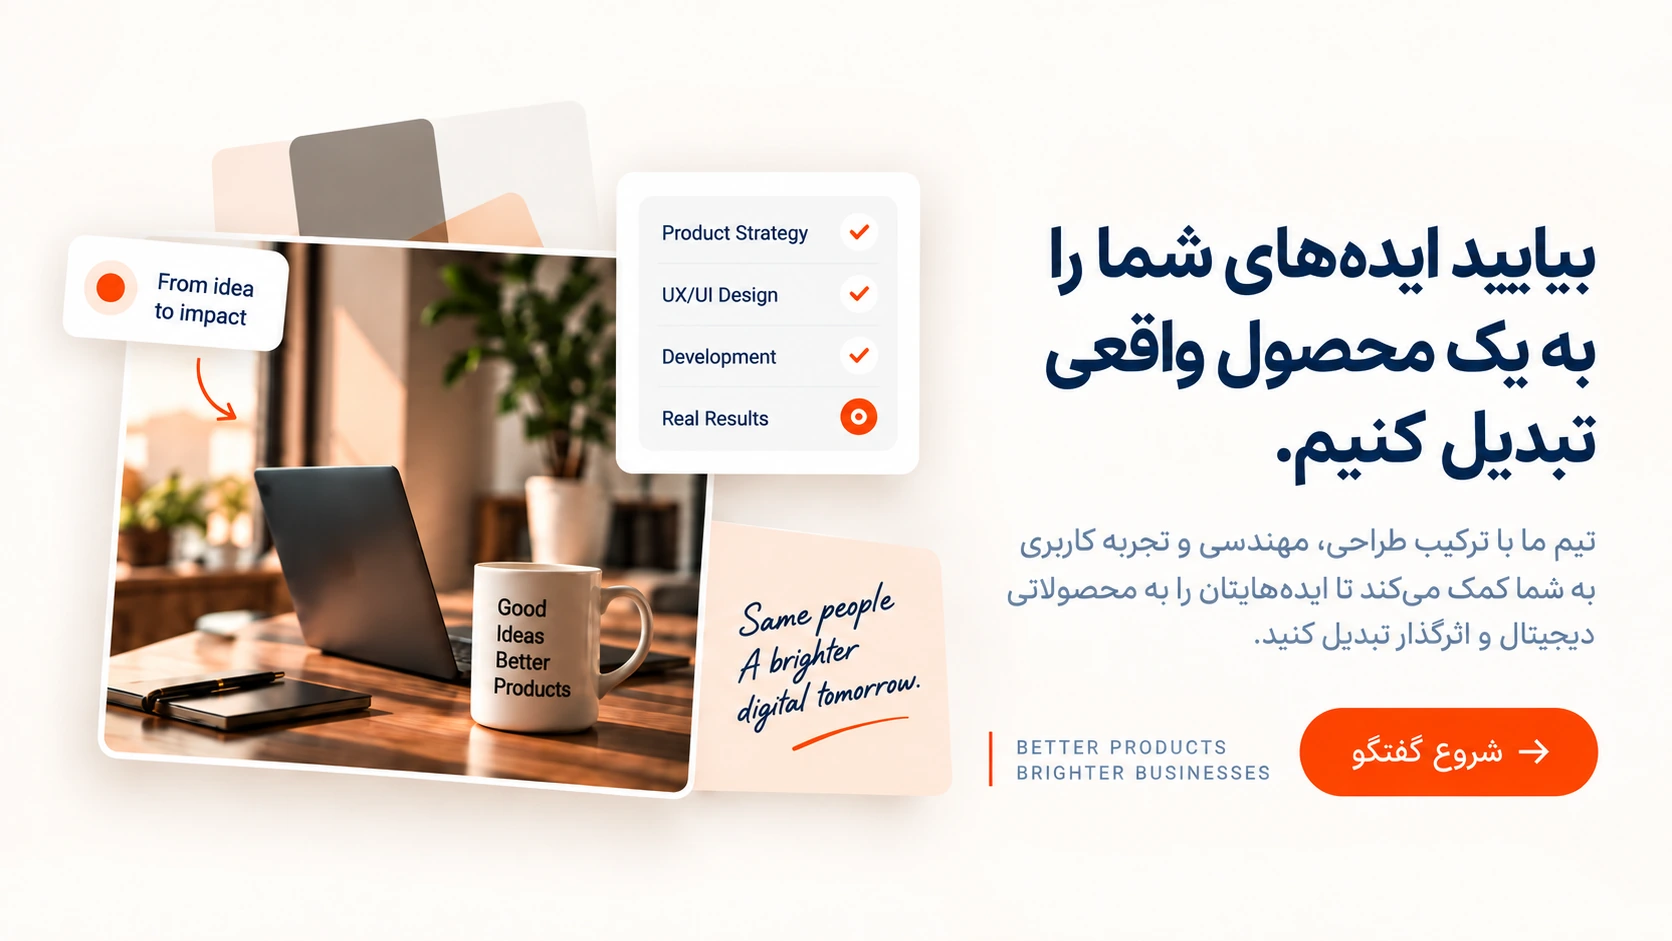
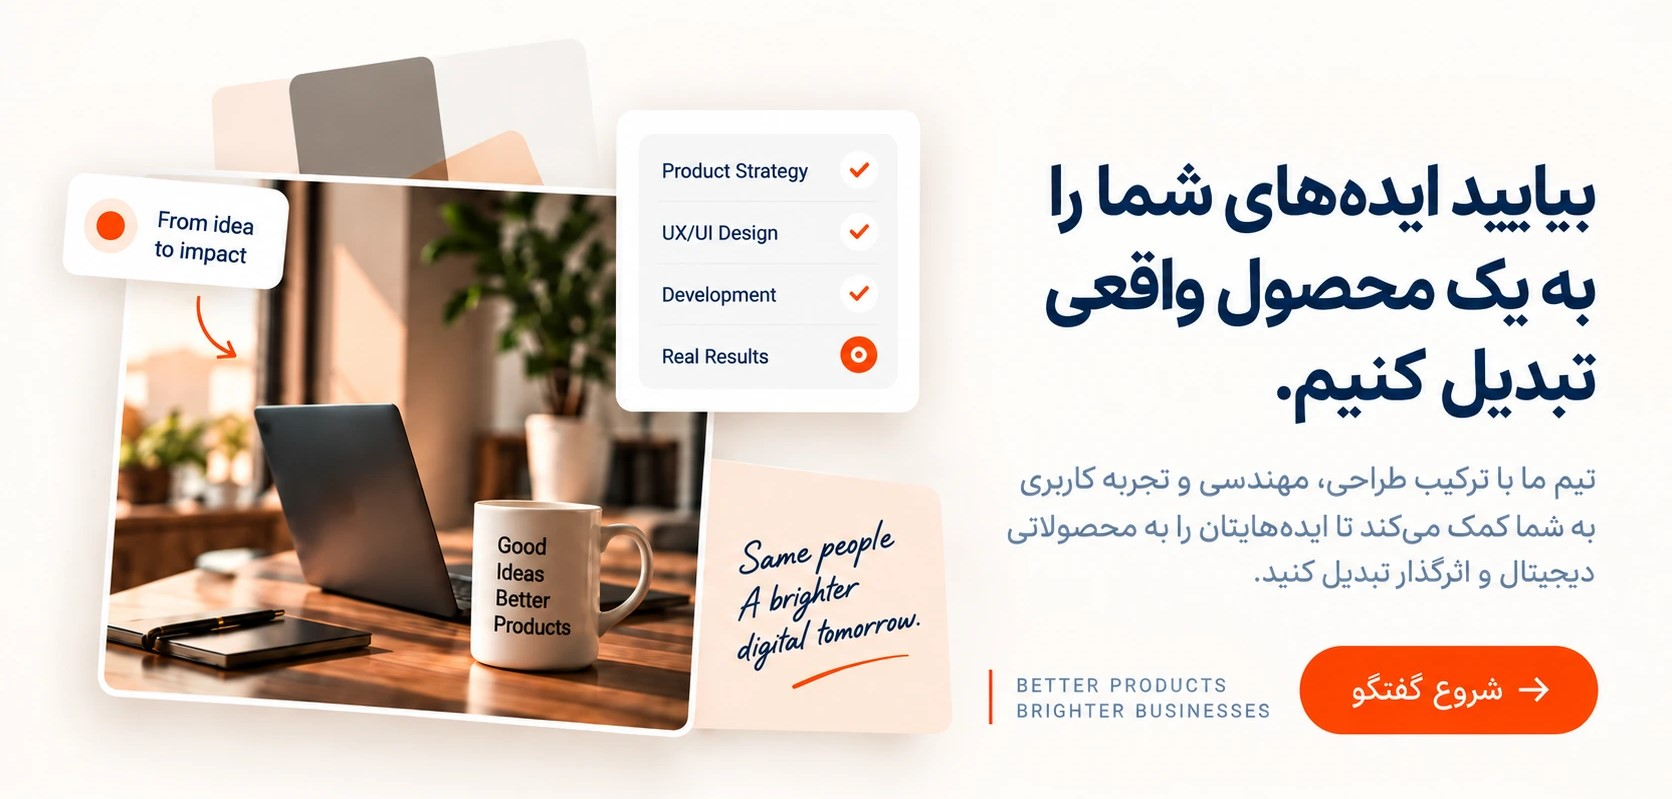
fix

diff --git a/pages/contact.vue b/pages/contact.vue
@@ -2,7 +2,7 @@
   <main class="contact-page">
     <SiteHeader />
 
-    <section class="contact-hero container">
+    <section class="contact-hero container-fluid">
       <div class="hero-banner">
         <img
           src="/images/hero/contact-hero.webp"
@@ -55,18 +55,19 @@
   padding: 0 28px;
 }
 .contact-hero {
-  padding: 32px 28px 50px;
+  /* padding: 32px 28px 50px; */
 }
 .hero-banner {
   width: 100%;
   overflow: hidden;
-  border-radius: 30px;
+  /* border-radius: 30px; */
   box-shadow: 0 18px 45px rgba(80, 50, 20, 0.08);
 }
 .hero-banner img {
   display: block;
   width: 100%;
   height: auto;
+  max-height: 550px;
 }
 .process {
   padding-bottom: 45px;
